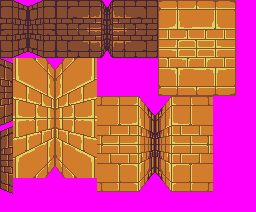
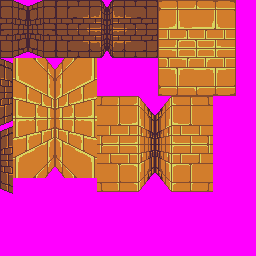
WIP: Optimizing the dungeon rendering.

diff --git a/src/dungeon.c b/src/dungeon.c
@@ -122,16 +122,7 @@ void sf_draw_first_wall_left()
 					WALLS_PAGE, active_page, LOGICAL_TIMP);
 }
 
-void sf_draw_first_wall_right_partly()
-{
-	// #WIP
-	sf_screen_copy(FIRST_WALL_RIGHT_X, FIRST_WALL_RIGHT_Y,
-					5, FIRST_WALL_DY,
-					DUNGEON_SCREEN_X + DUNGEON_SCREEN_DX - FIRST_WALL_DX, DUNGEON_SCREEN_Y,
-					WALLS_PAGE, active_page, LOGICAL_TIMP);
-}
-
-void sf_draw_first_wall_right_fully()
+void sf_draw_first_wall_right()
 {
 	sf_screen_copy(FIRST_WALL_RIGHT_X, FIRST_WALL_RIGHT_Y,
 					FIRST_WALL_DX, FIRST_WALL_DY,
@@ -158,23 +149,21 @@ void sf_draw_second_wall_front()
 }
 
 /*
- * This is the area to draw:
+ * This is the view area:
  *
  *  x x x x x
  *  x x x x x
  *    x o x
  *
- * horizontal order: far left, left, front, right, far right.
- * vertical order: third, second, first.
  */
 void sf_update_fp_view(void)
 {
 	uint x, y, distx, disty;
 
-	disty = 2;
+	disty = DUNGEON_VIEW_DIST;
 	for (int iy = 0; iy < DUNGEON_VIEW_DY; iy++)
 	{
-		distx = 2;
+		distx = DUNGEON_VIEW_DIST;
 		for (int ix = 0; ix < DUNGEON_VIEW_DX; ix++)
 		{
 			// Get the player's facing position.
@@ -217,7 +206,6 @@ void sf_draw_fp_view(void)
 		sf_draw_third_wall_front();
 	}
 
-	// #WIP The rest.
 	if (current_view[1 + DUNGEON_VIEW_DX * 2] == TILE_WALL)
 	{
 		sf_draw_first_wall_left();
@@ -225,12 +213,7 @@ void sf_draw_fp_view(void)
 
 	if (current_view[3 + DUNGEON_VIEW_DX * 2 ] == TILE_WALL)
 	{
-		sf_draw_first_wall_right_fully();
-	}
-
-	if (current_view[0 + DUNGEON_VIEW_DX] == TILE_WALL)
-	{
-		sf_draw_second_wall_far_left();
+		sf_draw_first_wall_right();
 	}
 
 	if (current_view[1 + DUNGEON_VIEW_DX] == TILE_WALL)
@@ -243,45 +226,40 @@ void sf_draw_fp_view(void)
 		sf_draw_second_wall_right();
 	}
 
-	if (current_view[4 + DUNGEON_VIEW_DX] == TILE_WALL)
+	if (current_view[0 + DUNGEON_VIEW_DX] == TILE_WALL &&
+		current_view[1 + DUNGEON_VIEW_DX * 2] != TILE_WALL)
+	{
+		sf_draw_second_wall_far_left();
+	}
+
+	if (current_view[4 + DUNGEON_VIEW_DX] == TILE_WALL &&
+		current_view[1 + DUNGEON_VIEW_DX * 2] != TILE_WALL)
 	{
 		sf_draw_second_wall_far_right();
 	}
 
-		if (current_view[0] == TILE_WALL)
-	{
-		sf_draw_third_wall_far_left();
-	}
-
-		if (current_view[1] == TILE_WALL)
+	if (current_view[1] == TILE_WALL &&
+		(current_view[7] != TILE_WALL && current_view[1 + DUNGEON_VIEW_DX * 2] != TILE_WALL))
 	{
 		sf_draw_third_wall_left();
 	}
 
-	if (current_view[3] == TILE_WALL)
+	if (current_view[3] == TILE_WALL &&
+		(current_view[7] != TILE_WALL && current_view[3 + DUNGEON_VIEW_DX * 2 ] != TILE_WALL))
 	{
 		sf_draw_third_wall_right();
-		// if (current_view[8] == TILE_WALL)
-		// {
-		// 	//partly;
-		// }
-		// else
-		// {
-		// 	//sf_draw_third_wall_right();
-		// }
 	}
 
-	if (current_view[4] == TILE_WALL)
+	if (current_view[0] == TILE_WALL &&
+		current_view[1 + DUNGEON_VIEW_DX * 2] != TILE_WALL)
+	{
+		sf_draw_third_wall_far_left();
+	}
+
+	if (current_view[4] == TILE_WALL &&
+		current_view[3 + DUNGEON_VIEW_DX * 2 ] != TILE_WALL)
 	{
 		sf_draw_third_wall_far_right_fully();
-		// if (current_view[9] == TILE_WALL)
-		// {
-		// 	sf_draw_third_wall_far_right_partly();
-		// }
-		// else if (current_view[8] != TILE_WALL && current_view[13] != TILE_WALL)
-		// {
-		// 	sf_draw_third_wall_far_right_fully();
-		// }
 	}
 }
 

diff --git a/src/dungeon.h b/src/dungeon.h
@@ -24,6 +24,8 @@
 #define DUNGEON_VIEW_DX 5
 #define DUNGEON_VIEW_DY 3
 
+#define DUNGEON_VIEW_DIST 2
+
 #define COMPASS_X FONT_SIZE + DUNGEON_SCREEN_X + (DUNGEON_SCREEN_DX - DUNGEON_SCREEN_X) / 2
 #define COMPASS_Y 0
 

diff --git a/src/snd.c b/src/snd.c
@@ -25,8 +25,8 @@ char is_playing_song = FALSE;
 
 void sf_init_snd(void)
 {
-	sf_init_battle_song();
-	is_playing_song = TRUE;
+	//sf_init_battle_song();
+	//is_playing_song = TRUE;
 }
 
 void sf_update_snd(void)
